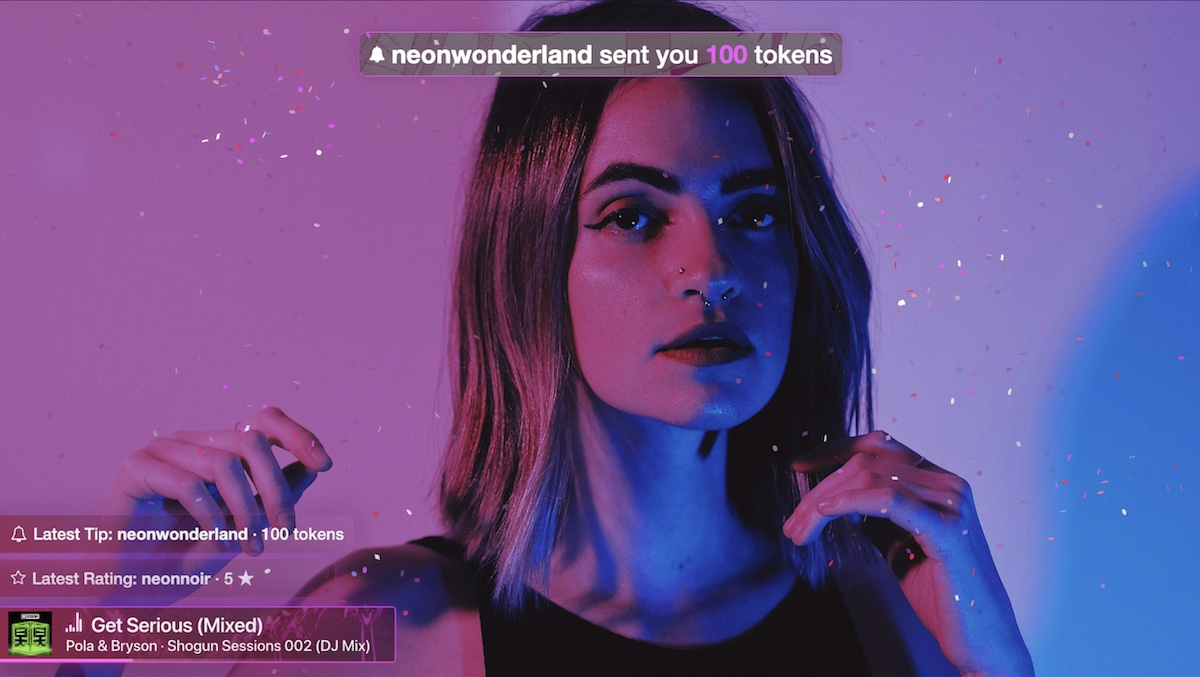
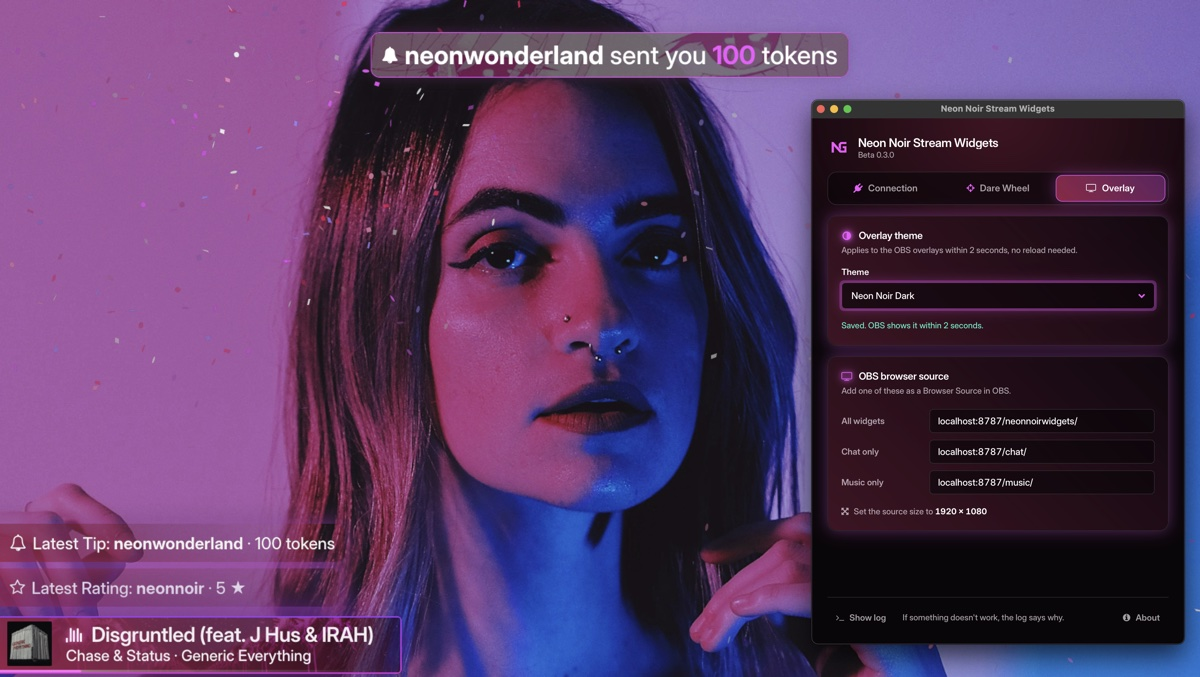
README in my own voice: intro, setup guide, privacy, Dare Wheel, new beta screenshots

diff --git a/README.md b/README.md
@@ -1,21 +1,82 @@
-![Neon Noir Stream Widgets in OBS: tip banner with confetti, latest tip and rating, and the now-playing card](images/opener.jpg)
+![Neon Noir Stream Widgets on stream: tip banner with confetti, latest tip and rating, the now-playing card, and the app's Overlay tab](images/opener.jpg)
 
 # Neon Noir Stream Widgets (beta)
 
-Stream overlays for **webcammodels.com / cammedia.com** in OBS (or any streaming app with a browser source):
+Hey, I'm **Neon Grey** 💜 I stream on **webcammodels.com / cammedia.com**, and at some point I got tired of my stream looking like every other stream. So I built myself a little neon toolbox. It worked so well that I'm sharing it with you.
 
-- **Chat events:** banners for ratings and tips, your latest rating and tip, slot machine and dice animations with confetti.
-- **Dare Wheel:** a viewer tips for your tip menu item (e.g. "Spin my Dare Wheel") and a wheel spins on your stream and lands on one of your dares. Between spins, a small teaser card reminds viewers it's there.
+Here's the idea in three sentences:
+
+1. **Better picture.** Instead of handing the site your raw webcam, you let **OBS** build your stream and send it out as a **virtual webcam**. Same camera, same room, but suddenly you get lighting tweaks, crops, scenes and overlays, and your whole stream just looks *better*.
+2. **The browser extension listens.** It sits in your browser next to the chat and passes everything that happens there (tips, ratings, slot spins, dice rolls, tip menu requests) on to the app. Bonus: it also asks your camera for 1080p and switches off the voice filter, so your music comes through clean instead of sounding like a phone call.
+3. **The app puts on the show.** The overlay app (for **macOS and Windows**) runs quietly in the background and serves little local web pages with all the widgets. You add them to OBS as a browser source, and they light up right on your stream.
+
+> **🔒 Your stuff stays yours.** No accounts, no tracking, no analytics. The app and the extension don't collect or send anywhere what you or your viewers do. Everything runs locally on your computer: the extension talks only to the app (via `localhost`), and the app talks only to OBS. Only two little things go online: a peek at this GitHub page (when the app starts and every 6 hours) to see if there's an update, and (Mac) when a song has no cover art, the app asks Apple's iTunes search for one using just the song title and artist.
+>
+> *My lawyer just cleared his throat, so: this describes what the app does, it is no legal promise in the actual sense.*
+
+### What lights up on your stream
+
+- **Chat events:** banners for ratings and tips, your latest rating and tip, slot machine and dice animations with confetti. Lots of confetti.
+- **Dare Wheel:** a viewer tips for your tip menu item (e.g. "Spin my Dare Wheel"), a wheel spins on your stream and lands on one of your dares. Between spins, a small teaser card reminds everyone it's there, just waiting.
 - **Now playing** (macOS only): the current Apple Music track with its cover and a progress bar.
-- **Themes:** Neon Noir Dark (the default, neon at night) and Neon Noir Light (the same look by day).
-- **HD webcam + clean audio:** the browser extension asks your camera for 1080p and turns off voice filtering, so music sounds clean.
-- **Windows: partly tested.** The app installs and connects to the extension; the overlays haven't been fully tested on Windows yet. If you're on Windows, your feedback helps most.
+- **Themes:** Neon Noir Dark (the default, neon at night) and Neon Noir Light (the same street by day).
+- **HD webcam + clean audio:** thanks to the extension, see above.
 
-It has three parts: the **app** (runs in the background), the **browser extension** (reads the chat) and the **browser source** in OBS (shows everything).
+> **Windows friends:** the app installs and connects to the extension, but I haven't fully tested the overlays on Windows yet. If you're on Windows, your feedback helps me the most.
 
-> **Beta version.** Things may still break. If something doesn't work, or you have an idea, reach out to Neon Grey: a DM on webcammodels.com when I'm online, Fan Mail when I'm offline, or a [GitHub issue](https://github.com/neongreycodes/neon-noir-stream-widgets/issues). The log helps (see [Troubleshooting](#troubleshooting)).
+> **This is a beta.** Things may still break, and that's okay, that's what betas are for. If something acts weird or you have an idea, tell me: DM me on webcammodels.com when I'm online, send Fan Mail when I'm offline, or open a [GitHub issue](https://github.com/neongreycodes/neon-noir-stream-widgets/issues). The log helps me a lot (see [Troubleshooting](#troubleshooting)). Thanks for testing! 🖤
+
+### Talk to me 💬
+
+I'm curious about everything: what works, what feels clunky, where setup got you stuck, what you think of the colours, fonts and animations on stream, and which widget you'd love to see next. Using a widget on your stream? Show me, I'd love to see it! 💜
+
+- **Found a bug?** Open an [issue](https://github.com/neongreycodes/neon-noir-stream-widgets/issues).
+- **Ideas, questions, show and tell?** Come hang out in [Discussions](https://github.com/neongreycodes/neon-noir-stream-widgets/discussions).
+- No question is too small, and beginners are very welcome. Be kind and open-minded: everyone is welcome here, whoever you are. 🌈
 
 ---
+
+# Part 1: The basic setup
+
+Before the widgets, let's get the stage ready. You do this once, then it's just there.
+
+## A. Install OBS
+
+OBS is free, and it's what turns your webcam into a proper stream.
+
+1. Download it from **[obsproject.com](https://obsproject.com)** (macOS or Windows) and install it.
+2. Open it. If the auto-configuration wizard pops up, pick **Optimize just for virtual camera**, or close it and continue below.
+3. Open **Settings → Video** and set **Base (Canvas) Resolution** and **Output (Scaled) Resolution** to `1920x1080`. That matches the widgets and the 1080p the extension asks for.
+4. In your scene, add a **Video Capture Device** source and pick your webcam. Make it fill the canvas (right-click → **Transform → Fit to screen**).
+
+## B. Turn OBS into your webcam
+
+1. In OBS, click **Start Virtual Camera** (in the **Controls** dock, bottom right).
+2. **Mac only, first time:** macOS asks to allow the OBS camera extension. Say yes, and if it sends you to **System Settings**, allow it there and restart OBS. Then click **Start Virtual Camera** again.
+3. On the chat site, open your broadcast settings and pick **OBS Virtual Camera** as your camera.
+
+Now whatever OBS shows is what your viewers see, widgets included once you've added them in [Part 2](#5-add-it-to-obs). OBS has to stay open with the virtual camera running while you stream.
+
+## C. Music on your stream (macOS)
+
+Want your Apple Music playing in the background of your show? (Anything goes. Except Madonna. She's cryo-frozen until her next show anyway, let her rest.) The trick: route it through a **virtual audio device** and let the site use that device as your **microphone**.
+
+Heads up: this is **pure music, no voice**. That's my setup and it's what I use. If yours looks different, you'll have to figure that part out yourself. 😉
+
+> **My comfy tip:** use an **external Bluetooth speaker with its own volume knob**. This audio routing switches off the macOS volume control, so otherwise the only way to make it quieter in your room is to turn it down in Apple Music, and that turns it down for your viewers too. With a speaker you set your room volume on the speaker, and the stream stays happy.
+>
+> *This is no audio-engineering advice in the actual sense.*
+
+1. Install **[Background Music](https://github.com/kyleneideck/BackgroundMusic)** (free). It adds a virtual audio device called **Background Music**.
+2. Open the **Audio MIDI Setup** app (Applications → Utilities). Click **+** at the bottom left → **Create Multi-Output Device**, and tick **Background Music** plus the speaker you want to hear it on (your Bluetooth speaker, or the internal speakers).
+3. Open **System Settings → Sound**. Under **Output**, pick the new **Multi-Output Device**. Under **Input**, pick **Background Music**.
+4. In Chrome, on the chat site, pick **Background Music** as your **microphone**.
+
+Now your music plays in your room *and* goes straight into your stream. Keep the browser extension running: it switches off the browser's voice filtering, which otherwise squashes music into something tinny. With it, your playlist sounds the way it should. 🎶
+
+---
+
+# Part 2: Install the widgets
 
 ## 1. Download
 
@@ -27,16 +88,18 @@ Open the **[latest release](https://github.com/neongreycodes/neon-noir-stream-wi
 | a Windows PC | `Neon.Noir.Stream.Widgets_…_x64-setup.exe` |
 | either | `neon-noir-stream-widgets-extension-….zip` (the browser extension) |
 
-You need **Chrome, Edge or Brave** for the extension, and **OBS**.
+You need **Chrome, Edge or Brave** for the extension, and **OBS** (which you already have from [Part 1](#a-install-obs)).
 
 ---
 
 ## 2. Install the app
 
+The app is the heart of it all. Install it once and forget it's there.
+
 ### Mac
 
 1. Open the `.dmg` and drag **Neon Noir Stream Widgets** into **Applications**.
-2. Open it from Applications. macOS says it **can't check the app** ("unidentified developer"). That's expected: the beta isn't registered with Apple. Click **Done**.
+2. Open it from Applications. macOS says it **can't check the app** ("unidentified developer"). That's expected, don't panic: the beta isn't registered with Apple (yet). My lawyer advised me not to comment further on Apple's paperwork. Click **Done**.
 3. Open **System Settings → Privacy & Security**, scroll down, and click **Open Anyway** next to "Neon Noir Stream Widgets". Confirm with your password. You only do this once.
 4. When music plays, macOS asks whether the app may **control "Music"**. Click **OK**: that's how it reads the current track.
 
@@ -45,11 +108,11 @@ You need **Chrome, Edge or Brave** for the extension, and **OBS**.
 1. Run the `…-setup.exe`. Windows shows **"Windows protected your PC"**. That's expected for the beta: click **More info → Run anyway**.
 2. Follow the installer.
 
-On Windows there is **no music widget yet**: the chat overlay works, the now-playing card doesn't appear.
+On Windows there is **no music widget yet**: the chat overlay works, the now-playing card doesn't appear. It's on my list.
 
 ### Where the app lives
 
-Closing the settings window does **not** stop the app: it keeps running in the background so your overlays keep working. To get the window back or to quit, click the **NG** icon:
+Closing the settings window does **not** stop the app (that's on purpose): it keeps running in the background so your overlays keep working. To get the window back or to quit, click the **NG** icon:
 
 - **Mac:** in the menu bar at the top right (clicking the app's Dock icon also opens the window).
 - **Windows:** in the system tray at the bottom right (maybe behind the **^** arrow).
@@ -59,6 +122,8 @@ It offers **Open settings** and **Quit**.
 ---
 
 ## 3. Install the browser extension
+
+The extension is your little spy in the chat. A friendly one.
 
 1. Unzip `neon-noir-stream-widgets-extension-….zip`. You get a folder **neon-noir-stream-widgets-extension**. Put it somewhere it can stay (e.g. your Documents). **Don't delete it later**: the browser loads the extension from there.
 2. In the browser, open `chrome://extensions` (Edge: `edge://extensions`, Brave: `brave://extensions`).
@@ -75,30 +140,38 @@ It offers **Open settings** and **Quit**.
 3. **Pairing code** (Connection tab): the app shows a code like `K7QM-4XPA`. Click the extension icon in the browser, type the code and click **Pair**. The popup now says **Connected to the app** and shows your username.
 4. **Overlay theme** (Overlay tab): pick the look you like; **Neon Noir Dark** is the default. It changes in OBS within 2 seconds.
 
-![Picking an overlay theme in the app, next to OBS (older look)](images/theme-select.jpg)
+![Switching to Neon Noir Light in the app's Overlay tab, with a 5-star rating banner on stream](images/theme-select.jpg)
 
-The pairing code makes sure only *your* extension can send events to your overlays.
+The pairing code makes sure only *your* extension can send events to your overlays. Nobody else gets to throw confetti on your stream.
 
 ---
 
 ## 5. Add it to OBS
 
-1. In your scene, add a **Browser** source.
+Time to see it glow.
+
+1. In your scene, add a **Browser** source (on top of your webcam).
 2. **URL:** `http://localhost:8787/neonnoirwidgets/`
 3. **Width** `1920`, **Height** `1080`.
 4. OK.
 
 That one source shows everything. If you'd rather place chat and music separately, use two browser sources with `http://localhost:8787/chat/` and `http://localhost:8787/music/` (same size).
 
-The app must be running while you stream. Without it, the browser source stays empty.
+The app must be running while you stream. Without it, the browser source stays empty. Because you're sending OBS out as your virtual webcam (see [Part 1](#b-turn-obs-into-your-webcam)), the widgets now show up on the site too.
 
 ---
 
 ## 6. Dare Wheel (optional)
 
-Let viewers spin a wheel that picks one of your dares.
+My favourite part. Let your viewers spin a wheel that picks one of your dares, and watch the chat go wild.
 
-![The Dare Wheel's predecessor, the Dare Radar, in OBS next to the app (older look)](images/dare-radar.jpg)
+Yes, the site has its own dare game. Mine is just better, sorry not sorry:
+
+- **Your price, your rules.** You set the token price for a spin. The site's version is always 10 tokens.
+- **Up to six dares, not exactly six.** Got three good ones? Use three. The site insists on all six.
+- **It's a damn spinning wheel.** In neon. With confetti. Need I say more? 😎
+
+![The Dare Wheel spinning on stream after a viewer's tip](images/dare-wheel.jpg)
 
 1. **On the chat site:** add an item to your **tip menu**, e.g. `Spin my Dare Wheel`, with any token price you like.
 2. **In the app** (Dare Wheel tab): type the **same text** in **Trigger**. Upper and lower case don't matter, but the words must match exactly. Easiest: send the request once yourself, then click **Use as trigger** next to "Last request".
@@ -112,7 +185,7 @@ When a viewer tips for that item, the wheel appears on your stream, spins for ab
 
 ## Updates
 
-When a new version is out, the app's settings window and the extension popup show **"Update available"**. Then:
+I keep improving things, so check back now and then. When a new version is out, the app's settings window and the extension popup show **"Update available"**. Then:
 
 - **App:** download the new `.dmg` / `-setup.exe` from the [latest release](https://github.com/neongreycodes/neon-noir-stream-widgets/releases/latest) and install it over the old one. Your settings stay.
 - **Extension:** unzip the new extension and replace the **contents** of your extension folder with it. Then open `chrome://extensions` and click the **reload** arrow on the extension.
@@ -120,6 +193,8 @@ When a new version is out, the app's settings window and the extension popup sho
 ---
 
 ## Troubleshooting
+
+Something's off? Don't worry, most hiccups are quick to fix.
 
 | Problem | What to do |
 | --- | --- |
@@ -129,8 +204,12 @@ When a new version is out, the app's settings window and the extension popup sho
 | The **Dare Wheel doesn't spin** on a tip | Is the Dare Wheel switch **on** and at least one dare filled in? Does "Last request" in the Dare Wheel tab show the request? Then click **Use as trigger** and **Save**. Still nothing: **Show log**, it says why. |
 | The browser source in OBS is **empty** | Is the app running? Is the URL exactly `http://localhost:8787/neonnoirwidgets/`? Right-click the source → **Refresh**. |
 | **Mac:** no music card | Music must be playing in the **Music** app. If you clicked "Don't Allow" before: System Settings → Privacy & Security → Automation → Neon Noir Stream Widgets → turn on **Music**. |
-| Something else | In the app's settings window, click **Show log** and send the `app.log` file to Neon Grey (DM, Fan Mail or a GitHub issue). |
+| The site doesn't offer **OBS Virtual Camera** | Click **Start Virtual Camera** in OBS first, then reload the chat site's page. **Mac:** check that the OBS camera extension is allowed in System Settings. |
+| Viewers **don't hear the music** (Mac) | Is **Background Music** picked as the microphone on the site? In System Settings → Sound, is the output the **Multi-Output Device** and the input **Background Music**? Is the extension running? |
+| Something else | In the app's settings window, click **Show log** and send me the `app.log` file (DM, Fan Mail or a GitHub issue). |
 
 ---
 
 Music overlay based on [apple-music-obs-overlay](https://github.com/m-shintaro/apple-music-obs-overlay) by Shintaro Matsumoto (MIT). App, extension and overlays use the Inter Display font (SIL OFL 1.1) and Font Awesome 4.7 (SIL OFL 1.1 / MIT); the overlays also use canvas-confetti (ISC).
+
+Made with love (and too much neon) by Neon Grey. 💜
